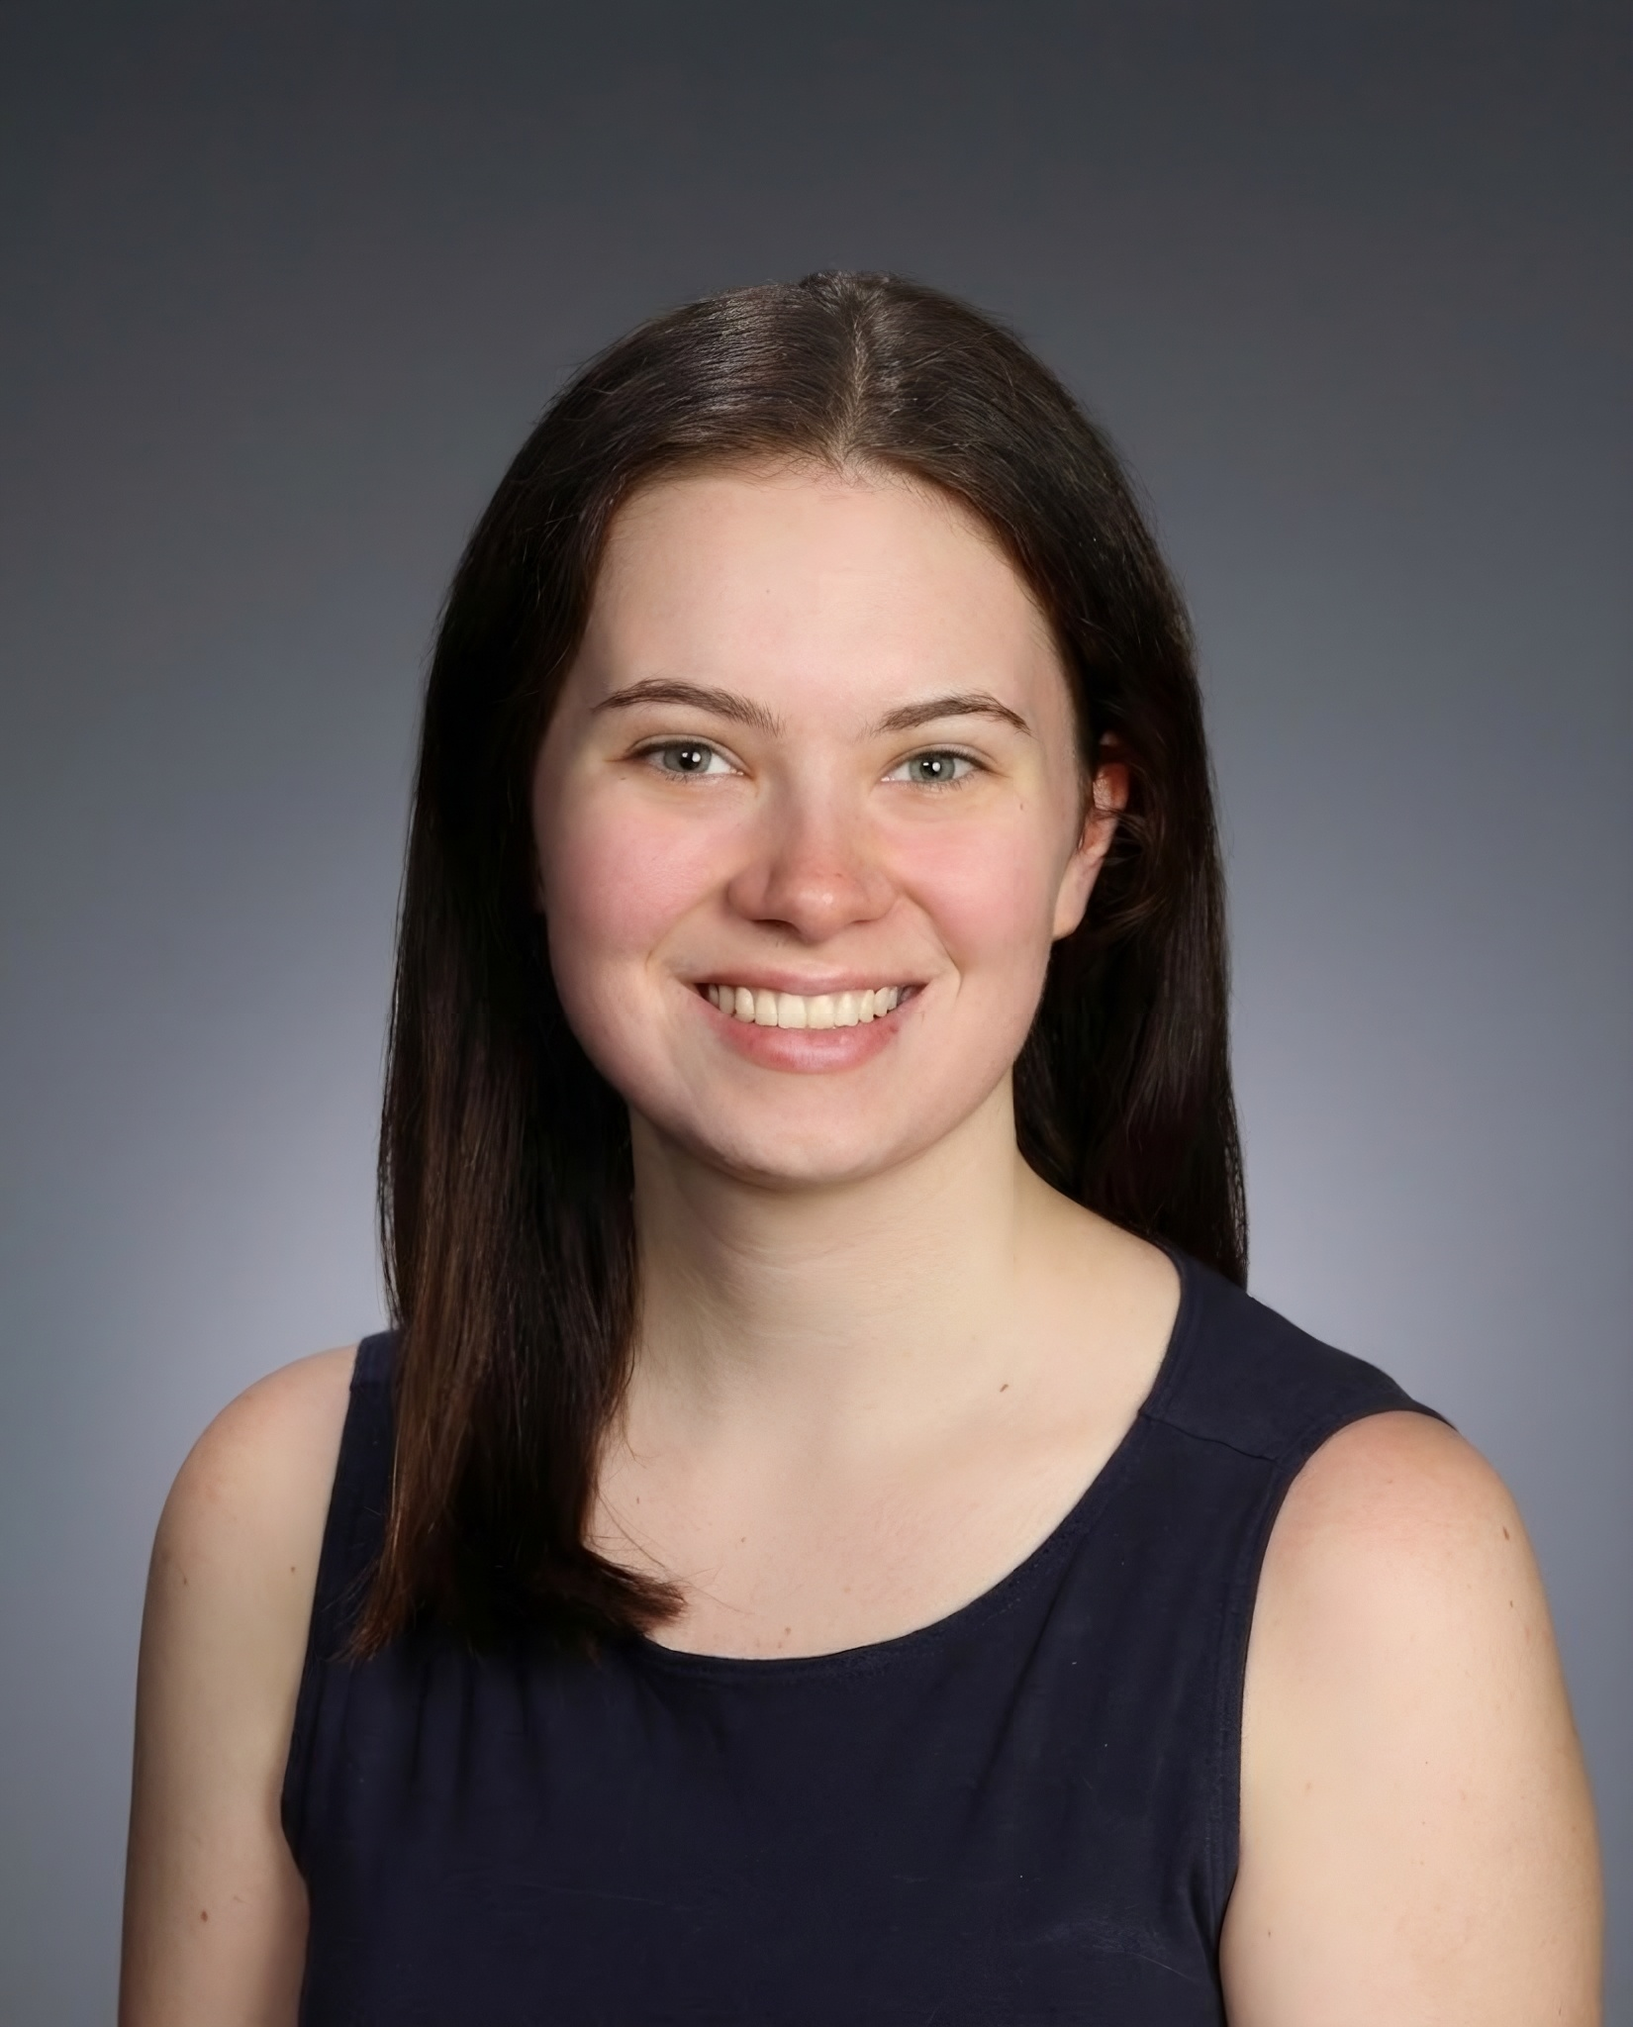
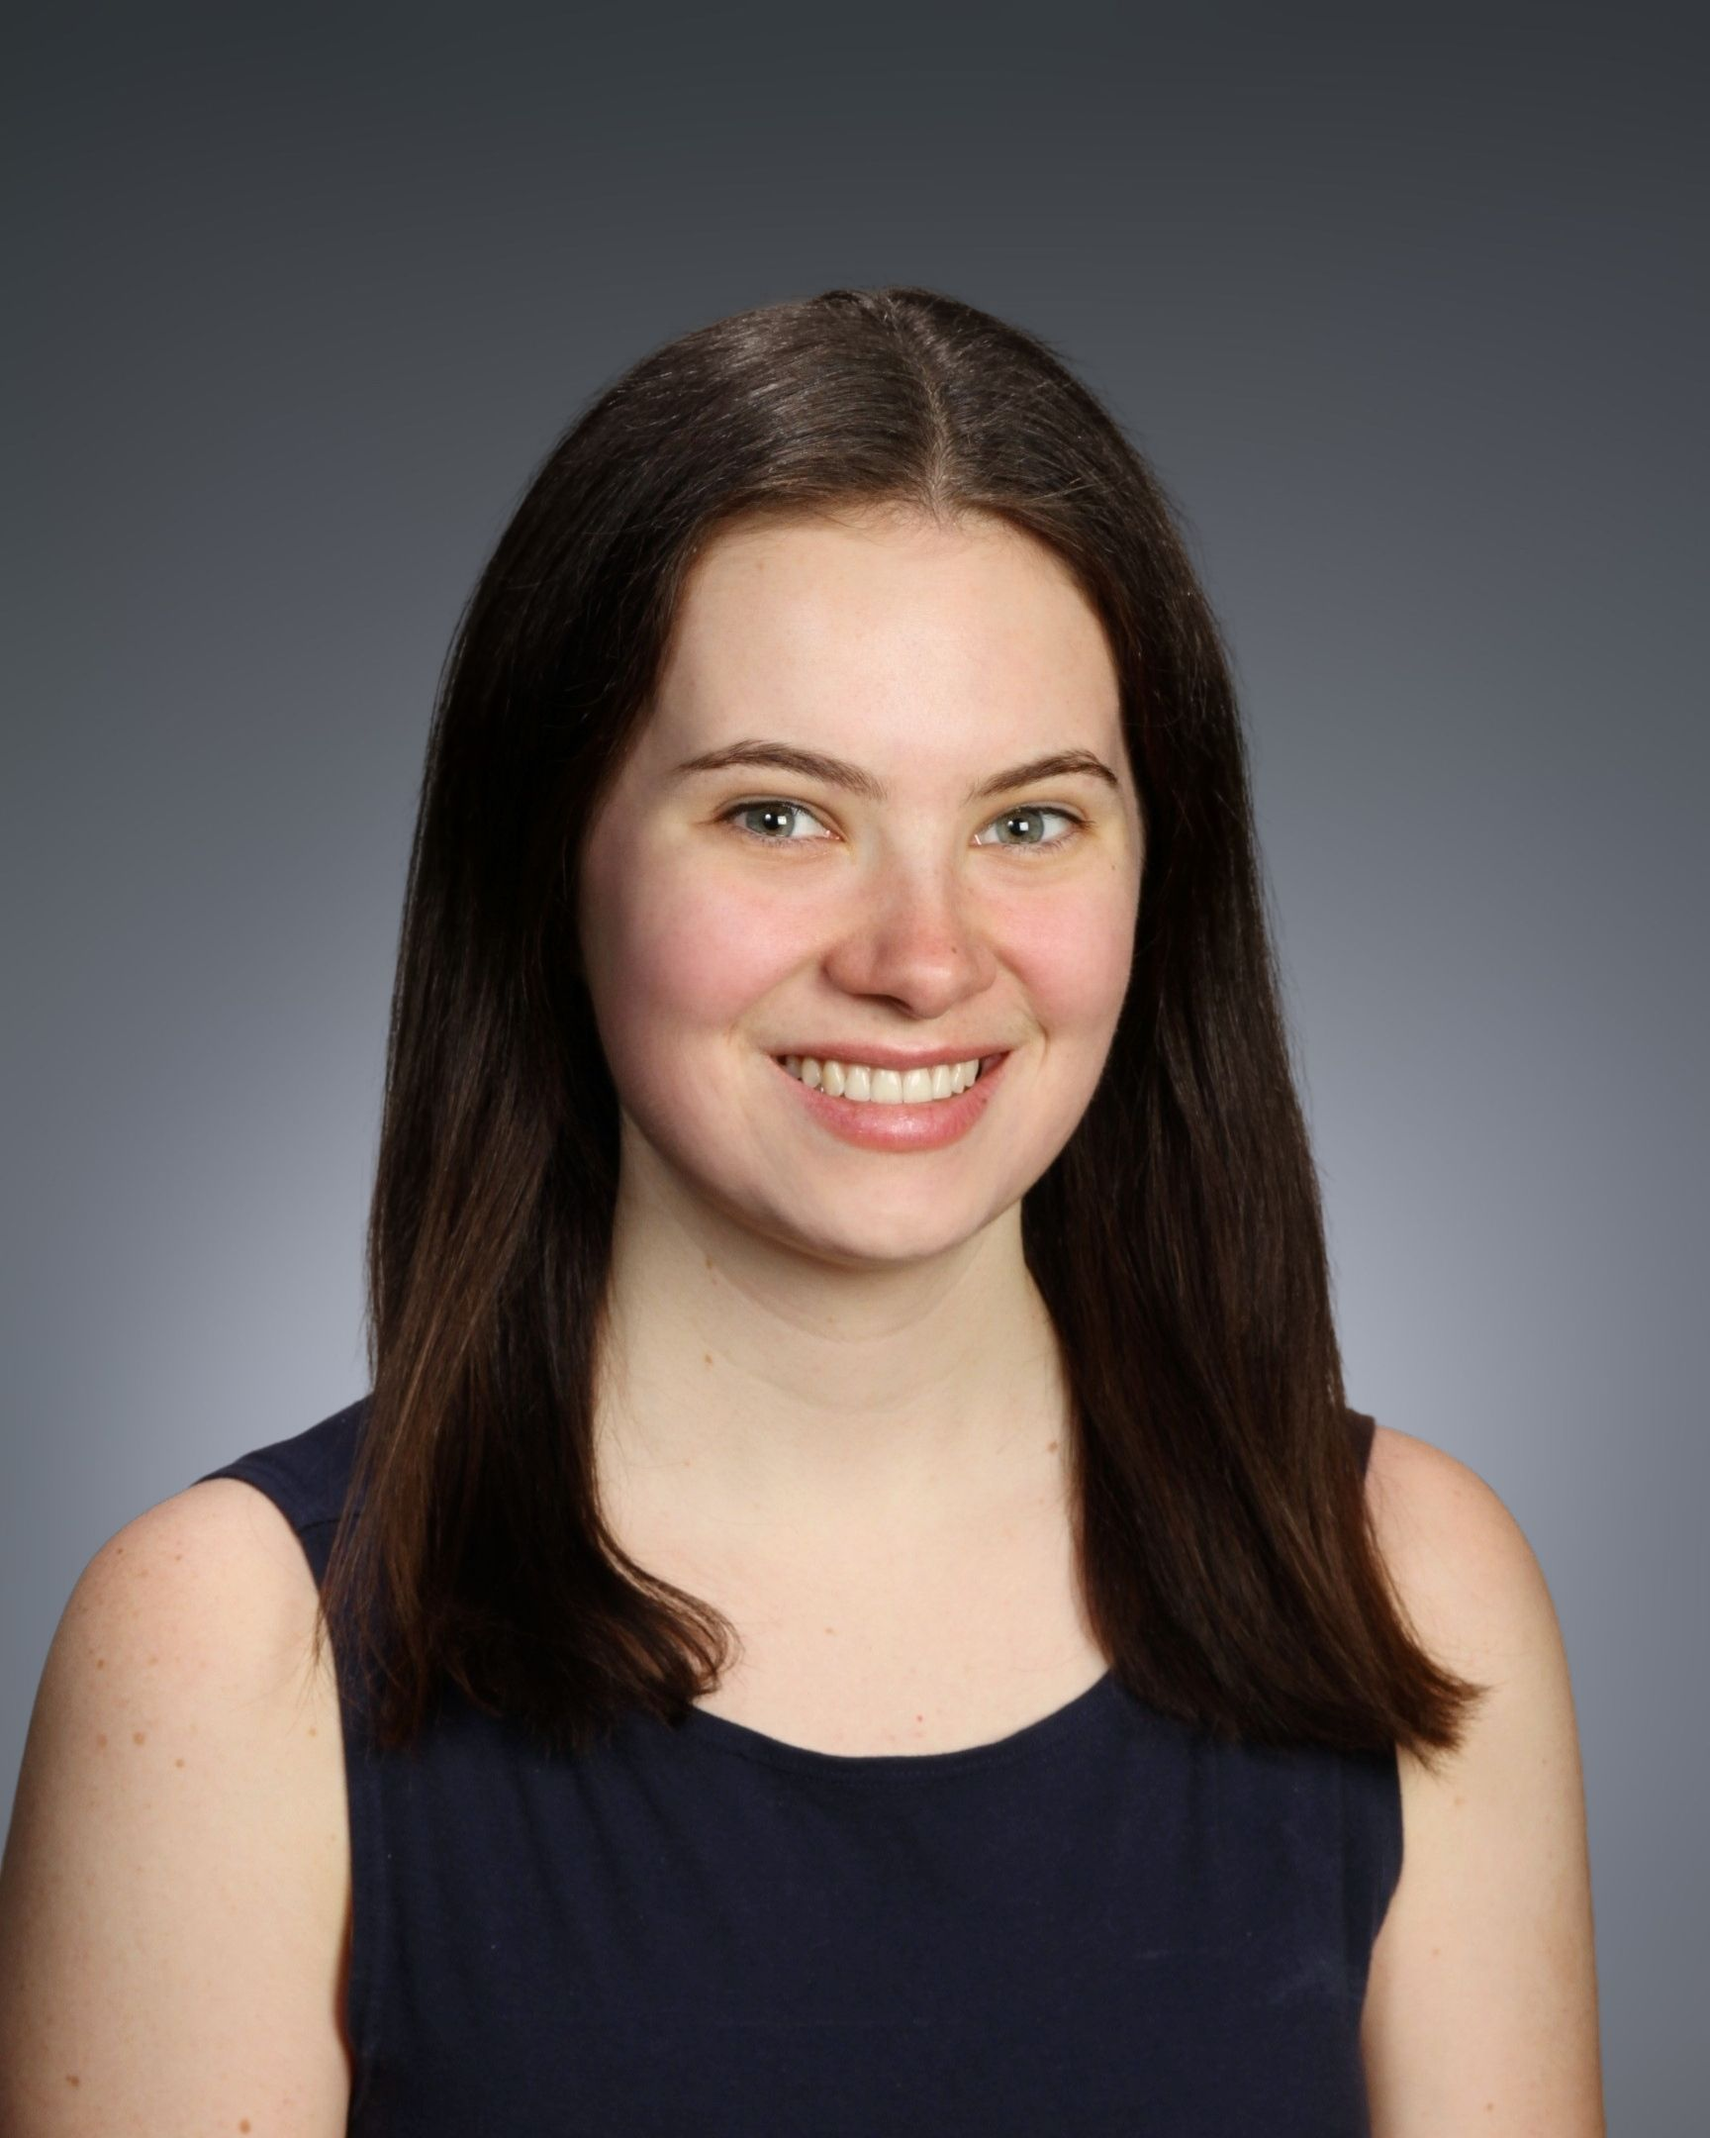
update photo

diff --git a/_pages/cv.md b/_pages/cv.md
@@ -11,9 +11,8 @@ redirect_from:
 
 Education
 ======
-* Ph.D in Version Control Theory, GitHub University, 2018 (expected)
-* M.S. in Jekyll, GitHub University, 2014
-* B.S. in GitHub, GitHub University, 2012
+* Ph.D in Electrical Engineering and Computer Science, Massachussets Institute of Technology, 2031 (expected)
+* B.S. in Computer Science, Columbia University, 2022-2026
 
 Work experience
 ======
@@ -61,4 +60,4 @@ Teaching
   
 Service and leadership
 ======
-* Currently signed in to 43 different slack teams
+* Columbia University Engineering Student Council
